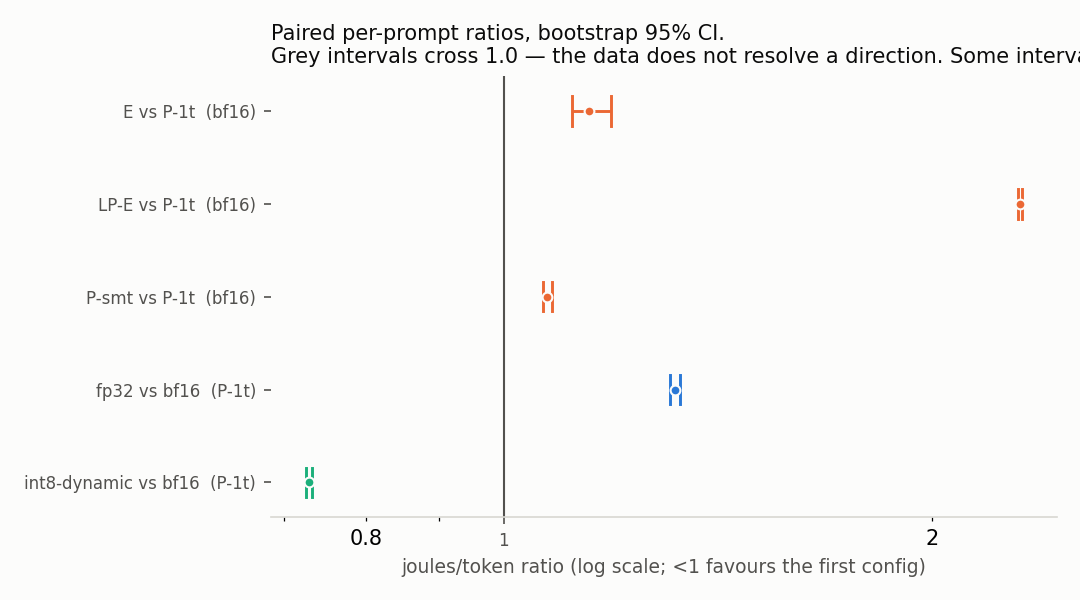
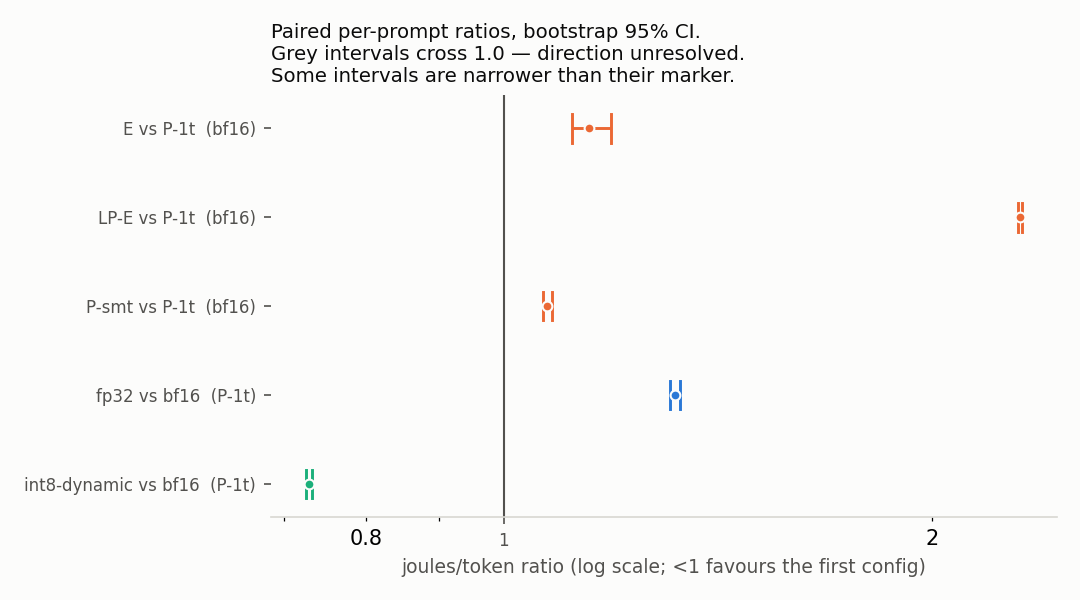
update and add new files

diff --git a/paper/main.tex b/paper/main.tex
@@ -19,7 +19,7 @@
 \usepackage[hidelinks]{hyperref}
 
 \newif\ifdraftmode
-\draftmodetrue
+\draftmodefalse
 \ifdraftmode
   \newcommand{\TODO}[1]{{\color{red}\textbf{[TODO: #1]}}}
 \else
@@ -35,9 +35,9 @@ for LLM Decode on x86 Heterogeneous SoCs}
 \thanks{M. E. Ul Haq is with the Institute of Data Science, University of
 Engineering and Technology, Lahore, Pakistan
 (e-mail: 2026SMSDS122@student.uet.edu.pk).}%
+\thanks{ORCID: \url{https://orcid.org/0009-0008-5016-6478}.}%
 \thanks{Artifact, including the measurement harness, the complete dataset and
-the discarded runs, is available at \TODO{archival URL -- Zenodo DOI or
-IEEE DataPort}.}}
+every discarded run, is archived at \href{https://doi.org/10.5281/zenodo.23243517}{doi:10.5281/zenodo.23243517}.}}
 
 \markboth{IEEE Transactions on Sustainable Computing}%
 {Ul Haq: Race to Idle}
@@ -46,35 +46,28 @@ IEEE DataPort}.}}
 
 % ---------------------------------------------------------------------------
 \begin{abstract}
-Heterogeneous consumer SoCs expose several core islands with different
-power--performance characteristics, and the naming of those islands---%
-\emph{performance}, \emph{efficiency}, \emph{low-power efficiency}---carries an
-implicit scheduling recommendation. We test that recommendation for large
-language model decode and find it inverted. Using Intel RAPL counters rather
-than estimates, we measure energy, latency and output quality across twelve
-configurations of numeric precision and core placement on an Intel Core Ultra~7
-155H, with 240 measurements, prefill and decode timed separately, and the KV
-cache sized at every decode step. At fixed precision and byte-identical output,
-the low-power island costs $2.306\times$ [2.301, 2.314] the energy per
-generated token of the performance island. The mechanism is directly
-observable: gross package power is 14.00\,W for every fp32 and bf16
-configuration, across islands whose throughput spans 7.0 to 16.1 tokens per
-second, against a 40\,W platform limit. With power constant, energy per token
-reduces to duration, and the measured energy ratios match the inverse of the
-independently measured throughput ratios to within 1.1\%. Decode is
-memory-bandwidth-bound, so the island issuing the loads has little influence on
-the power drawn, and the correct policy is to race to idle. The identity fails
-only for int8, the one precision whose power is not flat---which we take as
-confirmation of the mechanism rather than a counterexample. We further report
-that the bf16 energy advantage, $1.319\times$ on the performance cores,
-disappears entirely on the low-power island, so precision and placement cannot
-be chosen independently; and that per-tensor dynamic int8 does save 27\% energy
-while raising perplexity by 785\% and eliminating needle retrieval. The effect
-strengthens rather than weakens at smaller model scale, reaching
-$3.712\times$ on a 135\,M-parameter model, and is unchanged by a $4\times$
-longer context. Our result is the opposite of one reported for ARM mobile
-parts, and we identify the single measurement that distinguishes the two
-cases. All measurements, the harness and the runs we discarded are released.
+Heterogeneous consumer SoCs expose core islands whose names---\emph{performance},
+\emph{efficiency}, \emph{low-power efficiency}---carry an implicit scheduling
+recommendation. We test that recommendation for large language model decode and
+find it inverted. Using Intel RAPL counters rather than estimates, we take 240
+measurements across twelve configurations of precision and core placement on an
+Intel Core Ultra~7 155H, timing prefill and decode separately. At fixed
+precision and byte-identical output, the low-power island costs $2.306\times$
+[2.301, 2.314] the energy per generated token of the performance island. The
+mechanism is directly observable: gross package power is 14.00\,W for every
+fp32 and bf16 configuration, across islands whose throughput spans 7.0 to
+16.1\,tok/s, against a 40\,W platform limit. With power constant, energy per
+token reduces to duration, and the measured energy ratios match inverse
+throughput to within 1.1\%. Decode is memory-bandwidth-bound, so the island
+issuing the loads barely affects the power drawn, and the correct policy is to
+race to idle. The identity fails only for int8, the one precision whose power is
+not flat, which we take as confirmation rather than counterexample. We further
+find that the bf16 energy advantage disappears entirely on the low-power island,
+so precision and placement cannot be chosen independently; that per-tensor int8
+saves 27\% energy while raising perplexity by 785\%; and that the effect
+strengthens at smaller model scale, reaching $3.712\times$ on a 135\,M model.
+Our result is the opposite of one reported for ARM mobile, and we identify the
+single measurement that distinguishes the two cases.
 \end{abstract}
 
 \begin{IEEEkeywords}
@@ -463,9 +456,9 @@ the same runs, span 13.96 to 15.92\,W (Section~\ref{sec:int8break}). The
 instrument resolves power differences on this platform; fp32 and bf16 simply do
 not produce any.
 
-\begin{figure}[t]
+\begin{figure*}[t]
 \centering
-\includegraphics[width=\columnwidth]{figures/power_vs_throughput.png}
+\includegraphics[width=0.78\textwidth]{figures/power_vs_throughput.png}
 \caption{Net package power against decode throughput, one point per
 configuration. fp32 (blue) and bf16 (orange) lie on a horizontal line at
 2.77\,W while throughput varies more than twofold; only int8 (green) departs
@@ -473,7 +466,7 @@ from it. Dotted curves are constant joules per token, so a point's distance
 along a curve is pure duration. This is the whole argument of
 Section~\ref{sec:islands} in one panel.}
 \label{fig:power}
-\end{figure}
+\end{figure*}
 
 With power constant, energy per token reduces to duration, and that is a
 prediction rather than a description. Fig.~\ref{fig:power} shows the two
@@ -505,14 +498,14 @@ int8 & LP-E  & 2.509 & 2.447 & $+2.54\%$ \\
 \end{tabular}
 \end{table}
 
-\begin{figure}[t]
+\begin{figure*}[t]
 \centering
-\includegraphics[width=\columnwidth]{figures/paired_ratios.png}
+\includegraphics[width=0.78\textwidth]{figures/paired_ratios.png}
 \caption{Paired per-prompt energy ratios with bootstrap 95\% intervals, log
 scale, rule at unity. Every comparison in this study on one axis. Several
 intervals are narrower than their marker.}
 \label{fig:forest}
-\end{figure}
+\end{figure*}
 
 Two consequences follow and are worth separating. The ordering is robust: it
 rests on a $2.3\times$ duration difference against a power difference of under
@@ -1006,7 +999,7 @@ policy is to race to idle.
 \section*{Artifact Availability}
 The measurement harness, the complete dataset including every discarded run,
 and the analysis that generates every table and figure in this paper are
-available at \TODO{archival URL}. Five superseded runs are included
+archived at \href{https://doi.org/10.5281/zenodo.23243517}{doi:10.5281/zenodo.23243517}. Five superseded runs are included
 deliberately, each with a written account of why it was rejected---short
 measurement windows, prompts cycled by repeat index, an unsettled warmup, a
 per-configuration baseline that made the data noisier, and a half-measured
@@ -1014,5 +1007,22 @@ dataset---because the reason a measurement was discarded is part of the method.
 
 \bibliographystyle{IEEEtran}
 \bibliography{refs}
+
+% IEEEbiographynophoto avoids needing a portrait at submission. Switch to
+% \begin{IEEEbiography}[{\includegraphics[...]{photo}}]{...} if a photo is
+% wanted for the camera-ready version.
+\begin{IEEEbiographynophoto}{Muhammad Etisam Ul Haq}
+received the B.S. degree in data science from the Punjab University College of
+Information Technology (PUCIT), University of the Punjab, Lahore, Pakistan, and
+is currently pursuing the M.S. degree in data science at the Institute of Data
+Science, University of Engineering and Technology, Lahore, Pakistan.
+
+He works as a machine learning engineer, where his practice covers large
+language model fine-tuning and inference serving, retrieval-augmented
+generation, and private inference on non-CUDA accelerators. His research
+interests include the energy efficiency of on-device machine learning,
+measurement methodology for heterogeneous processors, and the systems side of
+language model deployment.
+\end{IEEEbiographynophoto}
 
 \end{document}

diff --git a/analyze.py b/analyze.py
@@ -777,10 +777,12 @@ def make_plots(summary: list[dict], loss: dict[str, float],
         ax.set_xlabel(("joules/token ratio " if energy else "s/token ratio ")
                       + "(log scale; <1 favours the first config)",
                       color=INK_MUTED, fontsize=9)
+        # Three short lines rather than two long ones: the previous title ran
+        # off the right edge of the canvas.
         ax.set_title("Paired per-prompt ratios, bootstrap 95% CI.\n"
-                     "Grey intervals cross 1.0 — the data does not resolve a "
-                     "direction. Some intervals are narrower than their marker.",
-                     color=INK, fontsize=10, loc="left")
+                     "Grey intervals cross 1.0 — direction unresolved.\n"
+                     "Some intervals are narrower than their marker.",
+                     color=INK, fontsize=9.5, loc="left")
         ax.grid(True, axis="x", color=GRID, linewidth=0.5, alpha=0.5)
         ax.set_axisbelow(True)
         for spine in ("top", "right", "left"):
